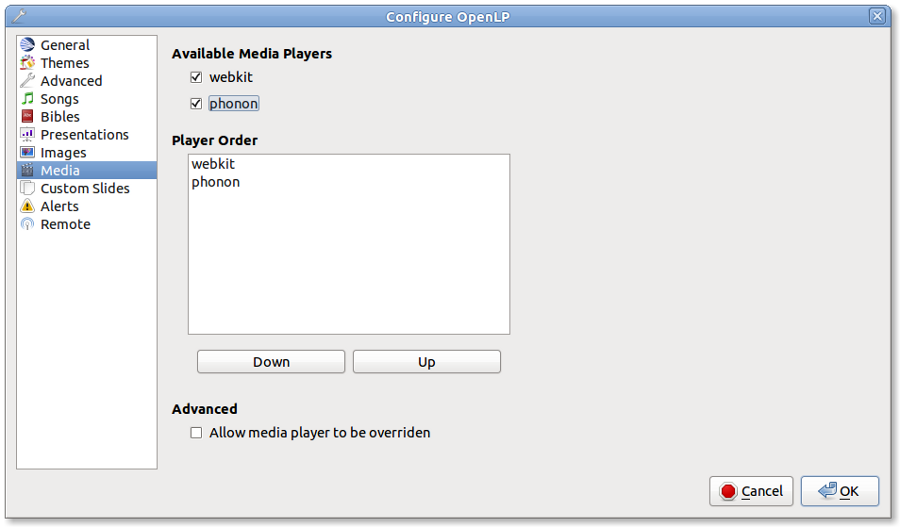
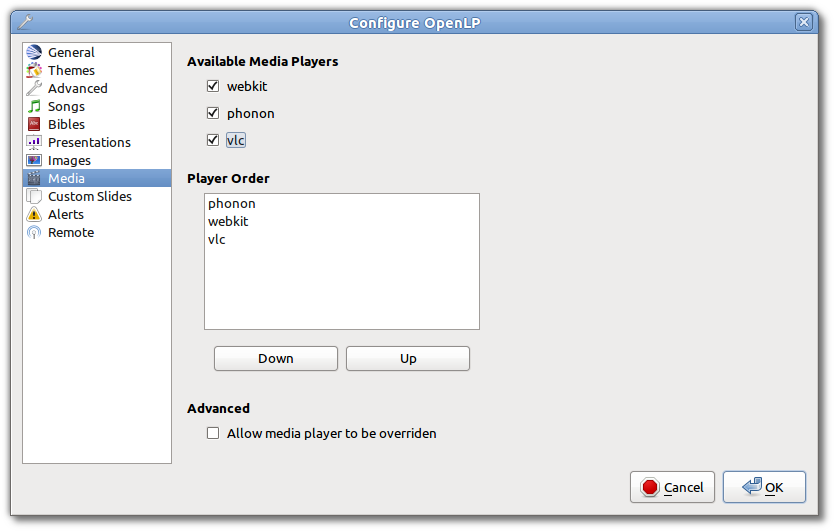
add vlc to media

Changed region(s): [[0.0, 0.0, 1.0, 1.0], [0.218, 0.334, 0.5916, 0.7287], [0.1868, 0.759, 0.5293, 0.8501]]

diff --git a/manual/source/configure.rst b/manual/source/configure.rst
@@ -324,7 +324,16 @@ Media
 Available Media Players
 ^^^^^^^^^^^^^^^^^^^^^^^
 
-Select the media players you want to be available for use.
+Select the media players you want to be available for use. As a general rule the 
+players control the following:
+
+* **Phonon:** Uses system codecs.
+* **Webkit:** Makes text over video possible.
+* **VLC:** Uses a wide variety of formats your system might not have.
+
+**Note:** You must have `VLC <http://www.videolan.org/vlc/>`_ installed for this 
+option to be available.
+
 
 Player Order
 ^^^^^^^^^^^^
